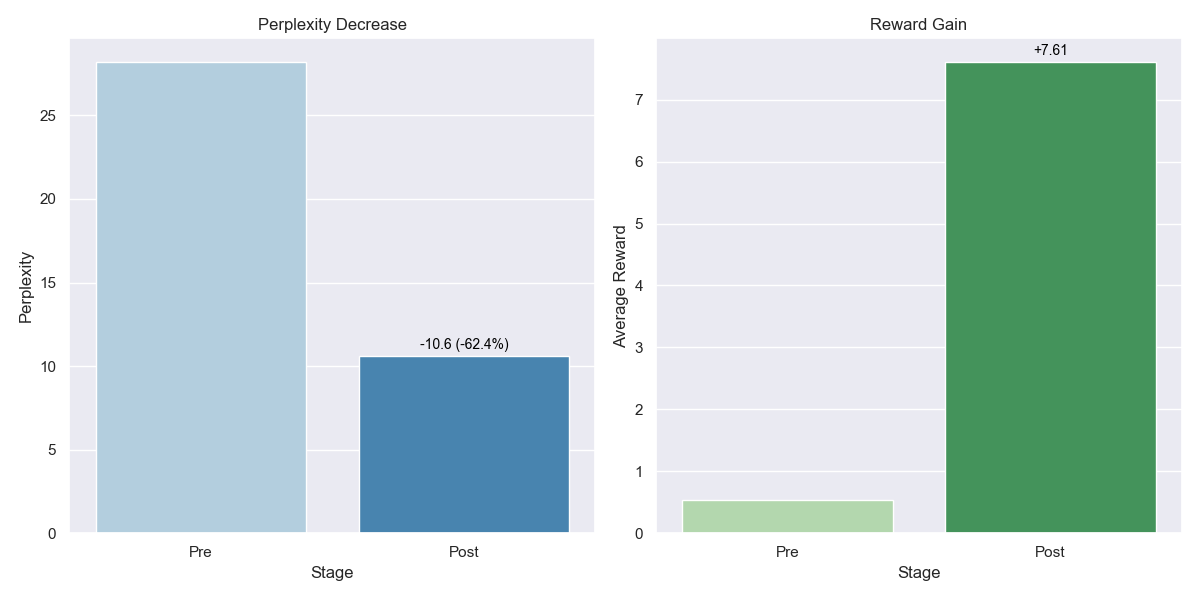
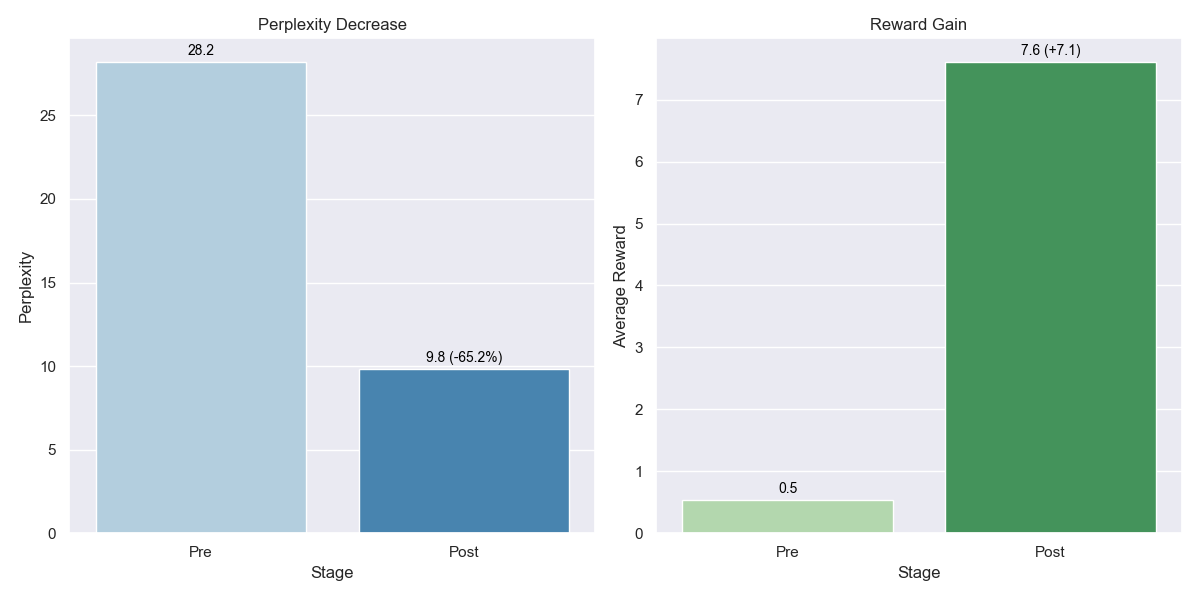
updates

Changed region(s): [[0.2775, 0.57, 0.4933, 0.63], [0.8633, 0.06, 0.8942, 0.09], [0.1542, 0.06, 0.185, 0.09]]

diff --git a/page/dist/projects/paperviewer.html b/page/dist/projects/paperviewer.html
@@ -63,9 +63,9 @@
 
 
 <body class="latex-light">
-    <div class="full-width-banner">
+    <!-- <div class="full-width-banner">
         This article is a <i>Work in Progress</i>. Content may be incomplete or subject to change.
-    </div>
+    </div> -->
 
 
     <button id="dark-mode-toggle">Dark Mode</button>
@@ -107,7 +107,7 @@
                 with all the research that is happening.</span>
             and Artificial Intelligence makes staying
             updated a daunting task. To address this, I developed a tool that automates the discovery and filtering of
-            research papers from sources like Arxive or Google Scholar.
+            research papers from sources like arXiv or Google Scholar.
             This tool leverages fine-tuned language models, reinforcement learning from human feedback and
             a generative language model artifically inventing papers to streamline paper curation, ensuring that only
             the most relevant works
@@ -192,7 +192,7 @@
                 <br><b>📑 Paper Scraper</b><br>
                 The paper scraper is tasked with discovering and ingesting new research publications from various online
                 sources. It is designed to be highly flexible, enabling the integration of multiple sources. Currently,
-                only sources with a clean Python API, such as ArXiv and Google Scholar, have been incorporated.
+                only sources with a clean Python API, such as arXiv and Google Scholar, have been incorporated.
                 Operating independently of the curator and user application, the scraper periodically updates the
                 database with new papers, ensuring the system stays current with the latest research.
                 <br>
@@ -350,15 +350,31 @@
                 of generated papers reaching a size comparable to the ground truth positive labels (~1000).
             </p>
             <p>
-                Through the initial generator finetuning with the whole (true) dataset, the models perplexity is reduced
-                from 28 down to 10 which shows good alignment with the ground truth. Examples of the generated titles
-                are shown below. Another evaluation of the system is looking at the averaga reward before and after the
-                RLHF training. The finetuned generator is able to produce output that increases the average reward from
-                0.5 to 6.5 using the initially trained reward model.
             <figure>
                 <img src="/davencyw.net/projects/paperviewer/perplexity_reward_plot.png">
                 <figcaption>Review page</figcaption>
             </figure>
+            </p>
+            <p>
+                Through the initial generator finetuning with the whole (true) dataset, the models perplexity is reduced
+                from 28 down to 10 which shows good alignment with the ground truth. Examples of the generated titles
+                are shown further below. Another evaluation of the system is looking at the averaga reward before and
+                after the
+                RLHF training. The finetuned generator is able to produce output that increases the average reward from
+                0.5 to 7.5 using the initially trained reward model.
+            </p>
+
+            <p>
+                Small sample of generated titles after initial finetuning:
+            <pre>
+DiffuK-Vid: Diffusion Video Model for High-fidelity Talking Face Video Generation
+Vision-based Occupancy Prediction Based on Geometric Priors
+Segment Any Mask
+Adaptive Data Scaling for Efficient Object Detection
+GaussianFormer: 3D Gaussian Splatting Transformer with Local-Global Fusion
+GAMMA-Net: Gated Multimodal Adapter for Efficient Multimodal Action Recognition
+DiffusionFormer: Boosting Vision Transformers with Diffusion Transformers 
+                </pre>
             </p>
             <p>
                 This system is capable of adapting to the
@@ -376,15 +392,7 @@
                 its understanding of the user's interests and adjusts its generative process accordingly. This dynamic
                 approach ensures that the dataset remains aligned with the user's shifting preferences, allowing the
                 system to generate more relevant and tailored paper ideas as it progresses.
-
             </p>
-            Sample of generated titles (not all of them are good):
-            <blockquote>
-                <p>PoseRe-IoU: A Pose-Based Method for Real-Time, Robust, and Efficient Human Pose Estimation</p>
-                <p>PoseRe-IoU: A Pose-Based Method for Real-Time, Robust, and Efficient Human Pose Estimation</p>
-                <p>PoseRe-IoU: A Pose-Based Method for Real-Time, Robust, and Efficient Human Pose Estimation</p>
-                <p>PoseRe-IoU: A Pose-Based Method for Real-Time, Robust, and Efficient Human Pose Estimation</p>
-            </blockquote>
             <h3>2.3 Interface</h3>
             <p>
                 The interface features a simple UI with two main sections: the overview and the review page. The
@@ -450,8 +458,9 @@
 
             <h2>3.1 Limitations and Future Work</h2>
             <p> There are several limitations to the current system, and I’ll begin with the most significant ones.
-                First, the model's performance is highly dependent on the quality of annotations and the biases
-                introduced by the generator, reward model, and relevance model. Ensuring the quality of annotations and
+                The model's performance heavily relies on the quality of annotations as
+                well as the biases introduced by the generator, reward model, and relevance model. Acquiring
+                annotations, ensuring their quality and
                 comparing them against the full dataset of existing papers is critical, but this process can be
                 time-intensive. Second, the system currently utilizes only a subset of available metadata, focusing
                 primarily on titles and abstracts. It cannot realistically generate authors relevant outside of those

diff --git a/page/public/projects/paperviewer.html b/page/public/projects/paperviewer.html
@@ -63,9 +63,9 @@
 
 
 <body class="latex-light">
-    <div class="full-width-banner">
+    <!-- <div class="full-width-banner">
         This article is a <i>Work in Progress</i>. Content may be incomplete or subject to change.
-    </div>
+    </div> -->
 
 
     <button id="dark-mode-toggle">Dark Mode</button>
@@ -107,7 +107,7 @@
                 with all the research that is happening.</span>
             and Artificial Intelligence makes staying
             updated a daunting task. To address this, I developed a tool that automates the discovery and filtering of
-            research papers from sources like Arxive or Google Scholar.
+            research papers from sources like arXiv or Google Scholar.
             This tool leverages fine-tuned language models, reinforcement learning from human feedback and
             a generative language model artifically inventing papers to streamline paper curation, ensuring that only
             the most relevant works
@@ -192,7 +192,7 @@
                 <br><b>📑 Paper Scraper</b><br>
                 The paper scraper is tasked with discovering and ingesting new research publications from various online
                 sources. It is designed to be highly flexible, enabling the integration of multiple sources. Currently,
-                only sources with a clean Python API, such as ArXiv and Google Scholar, have been incorporated.
+                only sources with a clean Python API, such as arXiv and Google Scholar, have been incorporated.
                 Operating independently of the curator and user application, the scraper periodically updates the
                 database with new papers, ensuring the system stays current with the latest research.
                 <br>
@@ -350,15 +350,31 @@
                 of generated papers reaching a size comparable to the ground truth positive labels (~1000).
             </p>
             <p>
-                Through the initial generator finetuning with the whole (true) dataset, the models perplexity is reduced
-                from 28 down to 10 which shows good alignment with the ground truth. Examples of the generated titles
-                are shown below. Another evaluation of the system is looking at the averaga reward before and after the
-                RLHF training. The finetuned generator is able to produce output that increases the average reward from
-                0.5 to 6.5 using the initially trained reward model.
             <figure>
                 <img src="/davencyw.net/projects/paperviewer/perplexity_reward_plot.png">
                 <figcaption>Review page</figcaption>
             </figure>
+            </p>
+            <p>
+                Through the initial generator finetuning with the whole (true) dataset, the models perplexity is reduced
+                from 28 down to 10 which shows good alignment with the ground truth. Examples of the generated titles
+                are shown further below. Another evaluation of the system is looking at the averaga reward before and
+                after the
+                RLHF training. The finetuned generator is able to produce output that increases the average reward from
+                0.5 to 7.5 using the initially trained reward model.
+            </p>
+
+            <p>
+                Small sample of generated titles after initial finetuning:
+            <pre>
+DiffuK-Vid: Diffusion Video Model for High-fidelity Talking Face Video Generation
+Vision-based Occupancy Prediction Based on Geometric Priors
+Segment Any Mask
+Adaptive Data Scaling for Efficient Object Detection
+GaussianFormer: 3D Gaussian Splatting Transformer with Local-Global Fusion
+GAMMA-Net: Gated Multimodal Adapter for Efficient Multimodal Action Recognition
+DiffusionFormer: Boosting Vision Transformers with Diffusion Transformers 
+                </pre>
             </p>
             <p>
                 This system is capable of adapting to the
@@ -376,15 +392,7 @@
                 its understanding of the user's interests and adjusts its generative process accordingly. This dynamic
                 approach ensures that the dataset remains aligned with the user's shifting preferences, allowing the
                 system to generate more relevant and tailored paper ideas as it progresses.
-
             </p>
-            Sample of generated titles (not all of them are good):
-            <blockquote>
-                <p>PoseRe-IoU: A Pose-Based Method for Real-Time, Robust, and Efficient Human Pose Estimation</p>
-                <p>PoseRe-IoU: A Pose-Based Method for Real-Time, Robust, and Efficient Human Pose Estimation</p>
-                <p>PoseRe-IoU: A Pose-Based Method for Real-Time, Robust, and Efficient Human Pose Estimation</p>
-                <p>PoseRe-IoU: A Pose-Based Method for Real-Time, Robust, and Efficient Human Pose Estimation</p>
-            </blockquote>
             <h3>2.3 Interface</h3>
             <p>
                 The interface features a simple UI with two main sections: the overview and the review page. The
@@ -450,8 +458,9 @@
 
             <h2>3.1 Limitations and Future Work</h2>
             <p> There are several limitations to the current system, and I’ll begin with the most significant ones.
-                First, the model's performance is highly dependent on the quality of annotations and the biases
-                introduced by the generator, reward model, and relevance model. Ensuring the quality of annotations and
+                The model's performance heavily relies on the quality of annotations as
+                well as the biases introduced by the generator, reward model, and relevance model. Acquiring
+                annotations, ensuring their quality and
                 comparing them against the full dataset of existing papers is critical, but this process can be
                 time-intensive. Second, the system currently utilizes only a subset of available metadata, focusing
                 primarily on titles and abstracts. It cannot realistically generate authors relevant outside of those
